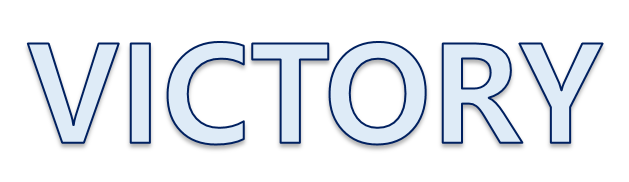
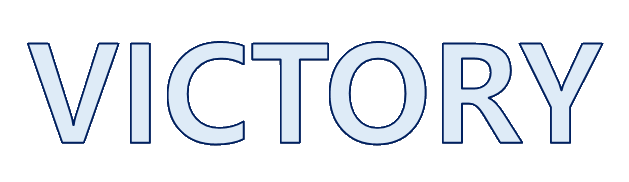
연출 개선 및 헤더에 주석 추가

diff --git a/4Dollor/D3DX_Base/cUIInGame.cpp b/4Dollor/D3DX_Base/cUIInGame.cpp
@@ -145,10 +145,39 @@ void cUIInGame::setupFadeAdd(wstring filePath)
 		&m_Fade.texture);
 
 	SetRect(&m_Fade.drawRc, 0, 0, 0, 0);
-	m_Fade.alpha = 255;
+	m_Fade.alpha = 0;
 	m_Fade.scale = 1;
 	m_Fade.pt = { 0, 0, 0 };
 	m_Fade.enable = true;
+
+	wstring strr = L"UI/ingame_loading_bg10.png";
+	ZeroMemory(&m_FadeBG, sizeof(tagUISpriteEfx));
+
+	D3DXMatrixIdentity(&m_FadeBG.matWorld);
+
+	D3DXCreateSprite(g_pD3DDevice, &m_FadeBG.sprite);
+
+	D3DXCreateTextureFromFileEx(
+		g_pD3DDevice,
+		strr.c_str(),
+		D3DX_DEFAULT_NONPOW2,
+		D3DX_DEFAULT_NONPOW2,
+		D3DX_DEFAULT,
+		0,
+		D3DFMT_UNKNOWN,
+		D3DPOOL_MANAGED,
+		D3DX_FILTER_NONE,
+		D3DX_DEFAULT,
+		D3DCOLOR_XRGB(255, 255, 255),
+		&m_FadeBG.imgInfo,
+		NULL,
+		&m_FadeBG.texture);
+
+	SetRect(&m_FadeBG.drawRc, 0, 0, m_FadeBG.imgInfo.Width, m_FadeBG.imgInfo.Height);
+	m_FadeBG.alpha = 255;
+	m_FadeBG.scale = m_UIScale;
+	m_FadeBG.pt = { 0, 0, 0 };
+	m_FadeBG.enable = true;
 }
 
 void cUIInGame::setupSkillLockList()
@@ -337,7 +366,7 @@ void cUIInGame::renderVictory()
 			{
 				if (m_VictoryEfx[i].alpha < 255)
 				{
-					m_VictoryEfx[i].alpha += 10;
+					m_VictoryEfx[i].alpha += VICTORYLIGHTSPEED;
 					//m_VictoryEfx[i].rotate += 1;
 					if (m_VictoryEfx[i].alpha >= 255)
 					{
@@ -358,7 +387,7 @@ void cUIInGame::renderVictory()
 
 				if (m_VictoryEfx[i].scale > VICTORYCYCLESCALE)
 				{
-					m_VictoryEfx[i].scale -= 0.2f;
+					m_VictoryEfx[i].scale -= VICTORYCYCLESCALESPEED;
 				}
 				if (m_VictoryEfx[i].scale <= VICTORYCYCLESCALE)
 				{
@@ -834,32 +863,57 @@ void cUIInGame::renderFade()
 {
 	if (m_Fade.enable)
 	{
-		m_Fade.sprite->Begin(D3DXSPRITE_ALPHABLEND);
-
-		m_Fade.alpha -= FADEINSPEED;
-		if (m_Fade.alpha <= 0)
 		{
-			m_Fade.alpha = 0;
-			m_Fade.enable = false;
+			m_FadeBG.sprite->Begin(D3DXSPRITE_ALPHABLEND);
+
+			D3DXMatrixAffineTransformation2D(&m_FadeBG.matWorld,
+				m_FadeBG.scale,
+				NULL,
+				NULL,
+				&D3DXVECTOR2(0, 0));
+
+			m_FadeBG.sprite->SetTransform(&m_FadeBG.matWorld);
+			m_FadeBG.sprite->Draw(m_FadeBG.texture,
+				&m_FadeBG.drawRc,
+				NULL,
+				NULL,
+				D3DCOLOR_ARGB(m_FadeBG.alpha, 255, 255, 255));
+
+
+			m_FadeBG.sprite->End();
+
 		}
 
-		D3DXMatrixAffineTransformation2D(&m_Fade.matWorld,
-			m_Fade.scale,
-			NULL,
-			NULL,
-			&D3DXVECTOR2(0, 0));
 
-		m_Fade.sprite->SetTransform(&m_Fade.matWorld);
-		RECT rc;
-		SetRect(&rc, 0, 0, WINX, WINY);
-		m_Fade.sprite->Draw(m_Fade.texture,
-			&rc,
-			NULL,
-			NULL,
-			D3DCOLOR_ARGB(m_Fade.alpha, 255, 255, 255));
+		{
+			m_Fade.sprite->Begin(D3DXSPRITE_ALPHABLEND);
+
+			m_Fade.alpha += FADEINSPEED;
+			if (m_Fade.alpha >= 255)
+			{
+				m_Fade.alpha = 255;
+				m_Fade.enable = false;
+				m_FadeBG.enable = false;
+			}
+
+			D3DXMatrixAffineTransformation2D(&m_Fade.matWorld,
+				m_Fade.scale,
+				NULL,
+				NULL,
+				&D3DXVECTOR2(0, 0));
+
+			m_Fade.sprite->SetTransform(&m_Fade.matWorld);
+			RECT rc;
+			SetRect(&rc, 0, 0, WINX, WINY);
+			m_Fade.sprite->Draw(m_Fade.texture,
+				&rc,
+				NULL,
+				NULL,
+				D3DCOLOR_ARGB(m_Fade.alpha, 255, 255, 255));
 
 
-		m_Fade.sprite->End();
+			m_Fade.sprite->End();
+		}
 	}
 }
 
@@ -928,6 +982,8 @@ void cUIInGame::destroyOther()
 	}
 	m_Fade.sprite->Release();
 	m_Fade.texture->Release();
+	m_FadeBG.texture->Release();
+	m_FadeBG.sprite->Release();
 	m_Dead.sprite->Release();
 	m_Dead.texture->Release();
 	m_SkillUnlockEfx.sprite->Release();

diff --git a/4Dollor/D3DX_Base/cUILoadingInGame.cpp b/4Dollor/D3DX_Base/cUILoadingInGame.cpp
@@ -33,6 +33,11 @@ void cUILoadingInGame::updateOther()
 
 void cUILoadingInGame::renderOther()
 {
+	LPD3DXFONT font = g_pFontManager->GetFont(cFontManager::FT_QUEST);
+	string str = "Loading...";
+	RECT rcText;
+	SetRect(&rcText, WINX - 500, WINY - 500, WINX - 50, WINY - 80);
+	font->DrawTextA(NULL, str.c_str(), str.length(), &rcText, DT_RIGHT | DT_BOTTOM, D3DCOLOR_ARGB(255, 255, 255, 255));
 }
 
 void cUILoadingInGame::destroyOther()
